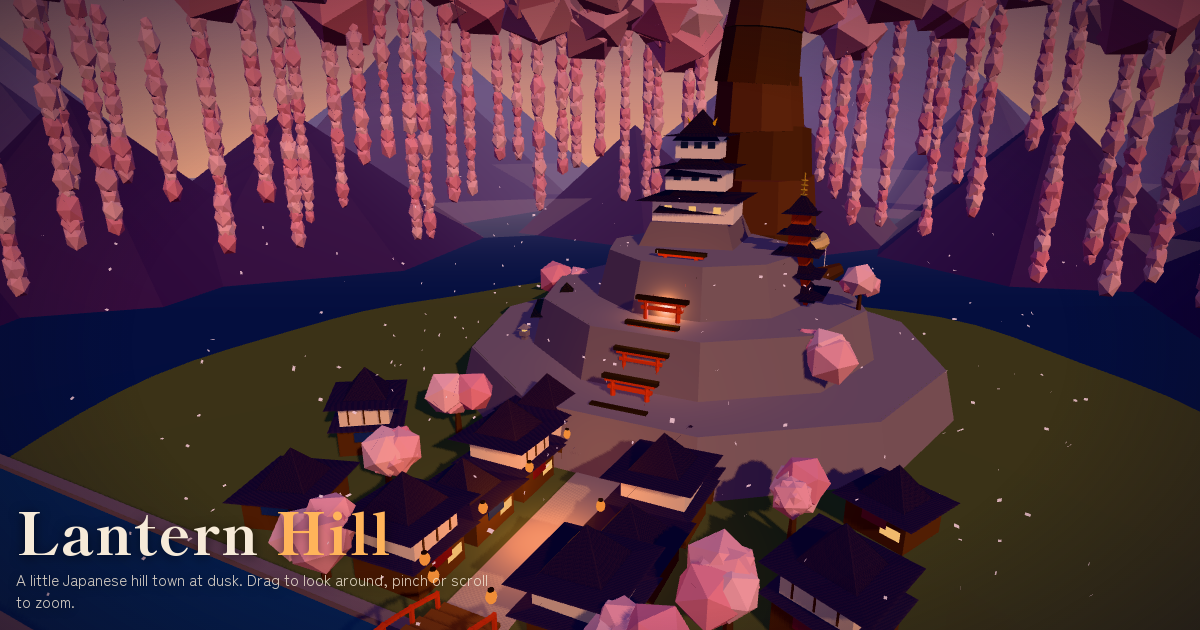
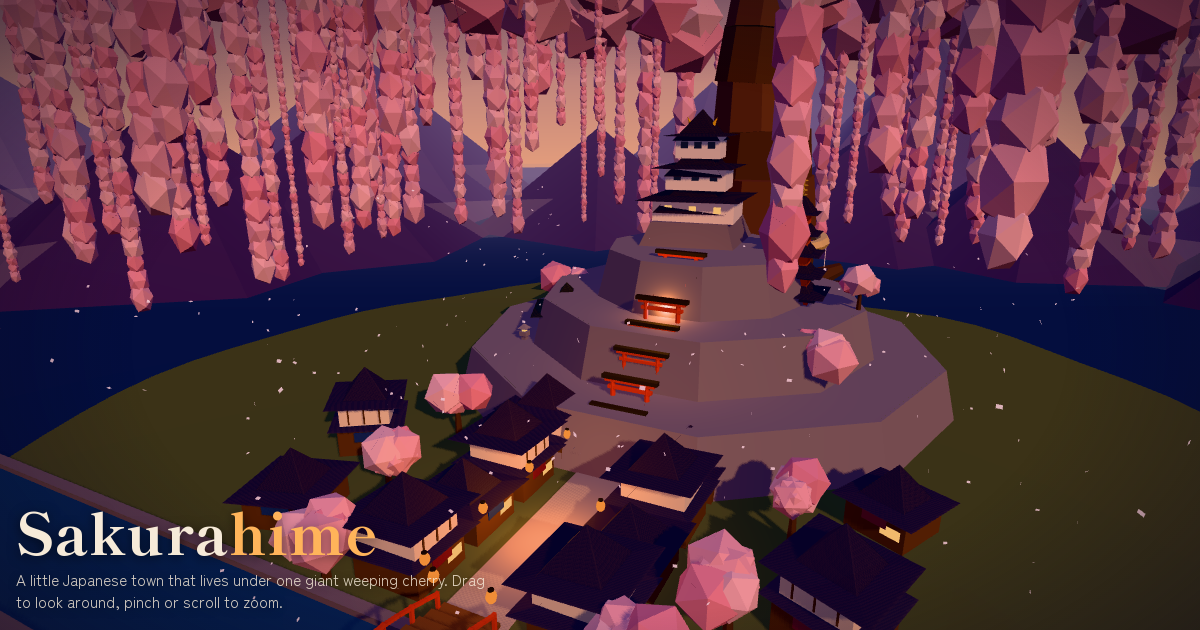
Sakurahime v1.4: bereonion named the town - Lantern Hill is now Sakurahime, the cherry blossom princess town under the giant weeping cherry

Changed region(s): [[0.0, 0.0, 1.0, 0.5127], [0.0, 0.8143, 0.4008, 0.9651]]

diff --git a/apps/lantern-hill/index.html b/apps/lantern-hill/index.html
@@ -3,21 +3,21 @@
 <head>
 <meta charset="utf-8">
 <meta name="viewport" content="width=device-width, initial-scale=1, viewport-fit=cover">
-<title>Lantern Hill — a little Japanese hill town in 3D at dusk</title>
-<meta name="description" content="Look around a tiny 3D Japanese hill town at dusk: a red bridge, tea houses, paper lanterns, cherry blossoms, a pagoda and a castle on top.">
+<title>Sakurahime — a 3D Japanese town under a giant weeping cherry</title>
+<meta name="description" content="Look around a little 3D Japanese town at dusk that lives under one giant weeping cherry: red bridge, tea houses, lanterns, a pagoda and a castle.">
 <link rel="canonical" href="https://app.sloppy.live/lantern-hill/">
 <meta name="theme-color" content="#1b1830">
 <link rel="icon" href="https://emojicdn.elk.sh/%F0%9F%8F%AE?style=apple">
 <meta property="og:type" content="website">
-<meta property="og:title" content="Lantern Hill — a Japanese hill town at dusk">
-<meta property="og:description" content="A tiny 3D town to look around: red bridge, tea houses, lanterns, cherry blossoms and a castle on the hill.">
+<meta property="og:title" content="Sakurahime — a town under a giant weeping cherry">
+<meta property="og:description" content="A tiny 3D Japanese town at dusk, living under one colossal weeping cherry tree. Drag to look around.">
 <meta property="og:url" content="https://app.sloppy.live/lantern-hill/">
 <meta property="og:image" content="https://app.sloppy.live/lantern-hill/og.png">
 <meta property="og:image:width" content="1200">
 <meta property="og:image:height" content="630">
 <meta name="twitter:card" content="summary_large_image">
-<meta name="twitter:title" content="Lantern Hill — a Japanese hill town at dusk">
-<meta name="twitter:description" content="A tiny 3D town to look around: red bridge, tea houses, lanterns, cherry blossoms and a castle on the hill.">
+<meta name="twitter:title" content="Sakurahime — a town under a giant weeping cherry">
+<meta name="twitter:description" content="A tiny 3D Japanese town at dusk, living under one colossal weeping cherry tree. Drag to look around.">
 <meta name="twitter:image" content="https://app.sloppy.live/lantern-hill/og.png">
 <link rel="preconnect" href="https://fonts.googleapis.com">
 <link rel="preconnect" href="https://fonts.gstatic.com" crossorigin>
@@ -36,9 +36,9 @@ canvas{display:block;width:100vw;height:100vh;touch-action:none}
 </style>
 </head>
 <body>
-<canvas id="c" aria-label="A 3D Japanese hill town at dusk. Drag to look around, pinch or scroll to zoom."></canvas>
+<canvas id="c" aria-label="Sakurahime, a 3D Japanese town at dusk under a giant weeping cherry tree. Drag to look around, pinch or scroll to zoom."></canvas>
 <div id="vig"></div>
-<div id="title"><h1>Lantern <span>Hill</span></h1><p>A little Japanese hill town at dusk. Drag to look around, pinch or scroll to zoom.</p></div>
+<div id="title"><h1>Sakura<span>hime</span></h1><p>A little Japanese town that lives under one giant weeping cherry. Drag to look around, pinch or scroll to zoom.</p></div>
 <script type="module">
 import * as THREE from 'https://cdn.jsdelivr.net/npm/three@0.170.0/build/three.module.js';
 

diff --git a/apps/lantern-hill/notes.md b/apps/lantern-hill/notes.md
@@ -1,4 +1,4 @@
-# Lantern Hill — notes
+# Sakurahime (folder lantern-hill) — notes
 
 Idea by bereonion (2026-10-12 22:10 UTC): "a 3D town inspired by Japanese structures". bereonion gets the final say on the name (Lantern Hill is my placeholder) and picked: it stays at dusk.
 
@@ -16,6 +16,8 @@ Idea by bereonion (2026-10-12 22:10 UTC): "a 3D town inspired by Japanese struct
 - v1.2 2026-10-12 22:32: bereonion: "make it swallow the whole sky", then "a weeping tree that surrounds the city" + "background needs more work" + "the floor is rectangular". The beside-the-hill tree is gone; now ONE colossal weeping cherry: trunk at (-2,-40) behind the castle, crown = 900 instanced clumps on a spherical cap (R 67.6, centre y -17.6, rim 50 at y~30) over the whole town, 120 hanging strands round the rim (instanced, stretched 1.7 in y), 10 boughs, shimenawa, 6 big lanterns in the crown. Ground = round island (r 36, centre z -6) in two extruded halves cut by the river, lake disc r 260 round it, 3 mountain ranges (78/118/165) + 2 mist rings. Camera dist 14-42 so it stays inside the curtain. Canopy/trunk castShadow off (else the town sits in shadow).
 
 - v1.3 2026-10-12 22:38: bereonion: "some in the middle also" + "more difference in sizes": strand(rr,a,bottom,size) helper; rim strands 0.5-1.2 or 1.5-2.1, some end high; 60 inner strands inside r 28 (the camera circle is ~38, so none hang in front of the lens), off the street (|x|<5 skipped), ending above the rooftops (+15 over the hill).
+
+- v1.4 2026-10-12 22:42: bereonion named it **Sakurahime** ("cherry blossom princess"; asked for a name with cherry). Title/h1/meta/og renamed; the folder stays lantern-hill so the posted links keep working.
 
 ## issues
 - 2026-10-12 22:33: a python splice used a non-unique end anchor ('const pinks' also in sakura()) and duplicated half the file; the live page was broken ~1 min. chk.py printed 'syntax BAD' but EXITED 0, so the && chain went on. Edit a scratch copy, grep chk's output for 'syntax ok', then copy to live.
